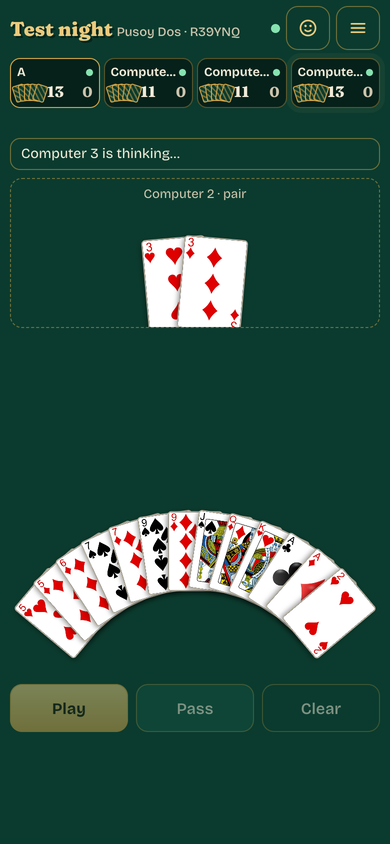
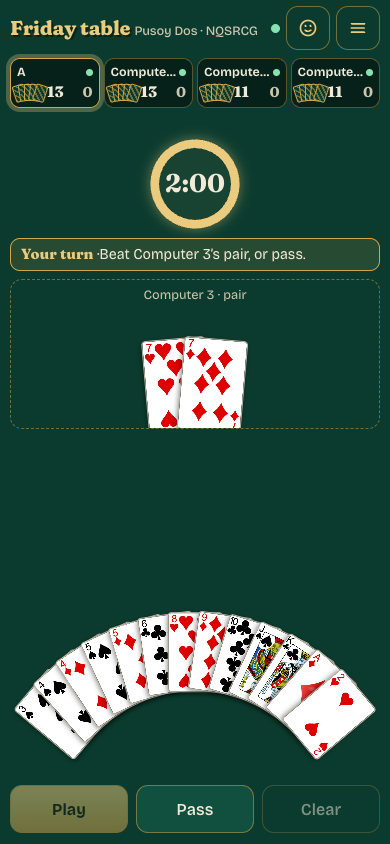
Turn time is a 1/2/3-minute toggle; bigger countdown; Pusoy row swap
- Pusoy no longer multiplies the turn time by six (30 s showed 3:00);
  the limit is exactly the chosen time in every game.
- Time per turn is a segmented toggle (No limit, 1, 2, 3 min) instead
  of a dropdown, shared by all four games.
- The countdown ring is larger, shows m:ss, and turns amber at 30 s
  and red at 10 s.
- Pusoy: "Swap middle and bottom" trades the two five-card rows.
- README screenshots and CHANGELOG updated.

Claude-Session: https://claude.ai/code/session_0179xaw4G6DEEyzuTAjUiFDP

diff --git a/src/web/components/PlayTable.svelte b/src/web/components/PlayTable.svelte
@@ -18,7 +18,10 @@
   // svelte-ignore state_referenced_locally
   const saved = Number.parseInt(getItem(`tt.stake.${room.gameId}`) ?? '', 10);
   let stakeText = $state(String(Number.isSafeInteger(saved) && saved > 0 ? saved : stakeCfg?.start ?? 1));
-  let turnSeconds = $state(Number.parseInt(getItem('tt.turnSeconds') ?? '0', 10) || 0);
+  /** Time per turn, the same choices in every game (in Pusoy it is the time to set the whole hand). */
+  const TURN_CHOICES = [0, 60, 120, 180] as const;
+  const savedTurn = Number.parseInt(getItem('tt.turnSeconds') ?? '0', 10);
+  let turnSeconds = $state<number>((TURN_CHOICES as readonly number[]).includes(savedTurn) ? savedTurn : 0);
   // Stakeless games (poker) still send a stake of 1; the server ignores it.
   const stake = $derived(!stakeCfg ? 1 : /^\d{1,8}$/.test(stakeText) ? Number.parseInt(stakeText, 10) : 0);
 
@@ -57,18 +60,19 @@
   const secondsLeft = $derived(remainingMs === null ? null : Math.ceil(remainingMs / 1000));
   const ringOffset = $derived(100 * (1 - Math.min(1, (remainingMs ?? 0) / visibleTurnMs)));
   const clock = $derived(secondsLeft === null ? '' : secondsLeft >= 60 ? `${Math.floor(secondsLeft / 60)}:${String(secondsLeft % 60).padStart(2, '0')}` : `${secondsLeft}s`);
+  const urgency = $derived(secondsLeft === null ? '' : secondsLeft <= 10 ? 'low' : secondsLeft <= 30 ? 'warn' : '');
 </script>
 
 <div class="pt">
   {#if secondsLeft !== null && !over}
-    <div class="timer" class:low={secondsLeft <= 5} role="timer" aria-label={t('play.timeLeft', { t: clock })}>
+    <div class="timer {urgency}" role="timer" aria-label={t('play.timeLeft', { t: clock })}>
       {#key deadline}
         <svg viewBox="0 0 64 64" aria-hidden="true">
           <circle class="timer-track" cx="32" cy="32" r="28" />
           <circle class="timer-ring" cx="32" cy="32" r="28" pathLength="100" stroke-dasharray="100 100" stroke-dashoffset={ringOffset} />
         </svg>
       {/key}
-      <span class="timer-number" aria-hidden="true">{secondsLeft}</span>
+      <span class="timer-number" aria-hidden="true">{clock}</span>
     </div>
   {/if}
   {#if canShowLast}<button type="button" class="ghost last" aria-expanded={showLast} onclick={() => (showLast = !showLast)}>{t('play.lastHand')}</button>{/if}
@@ -85,16 +89,20 @@
 
   {#if isHost && (!play || over)}
     <div class="deal" class:one={!stakeCfg}>
+      <fieldset class="turns">
+        <legend class="dim">{t('play.turnTime')}</legend>
+        {#each TURN_CHOICES as s (s)}
+          <label class="turn" class:on={turnSeconds === s}>
+            <input type="radio" name="turn-time" value={s} bind:group={turnSeconds} />
+            <span>{s === 0 ? t('play.turnTime.0') : t('play.turnTime.m', { n: s / 60 })}</span>
+          </label>
+        {/each}
+      </fieldset>
       {#if stakeCfg}
         <label class="f"><span class="dim">{t(stakeCfg.label)}</span>
           <input type="text" inputmode="numeric" pattern="[0-9]*" maxlength="8" bind:value={stakeText} />
         </label>
       {/if}
-      <label class="f"><span class="dim">{t('play.turnTime')}</span>
-        <select bind:value={turnSeconds}>
-          {#each [0, 20, 30, 60] as s (s)}<option value={s}>{s === 0 ? t('play.turnTime.0') : t('play.turnTime.s', { n: s })}</option>{/each}
-        </select>
-      </label>
       <button type="button" class="primary" disabled={stake < 1} onclick={deal}>{t(play ? 'play.dealNext' : 'play.deal')}</button>
     </div>
   {:else if !play}
@@ -106,17 +114,18 @@
 
 <style>
   .pt { position: relative; display: flex; flex-direction: column; gap: 8px; min-height: 0; flex: 1 1 auto; max-height: 100%; }
-  .timer { position: relative; align-self: center; flex: none; width: 64px; height: 64px; display: grid; place-items: center; color: var(--accent); }
-  .timer svg { position: absolute; inset: 0; width: 100%; height: 100%; transform: rotate(-90deg); fill: none; stroke-width: 4; }
-  .timer-track { stroke: currentColor; opacity: .18; }
-  .timer-ring { stroke: currentColor; stroke-linecap: round; transition: stroke-dashoffset 100ms linear; }
-  .timer-number { font-family: var(--font-ui); font-size: 1.35rem; line-height: 1; font-weight: 700; font-variant-numeric: tabular-nums; color: var(--text); }
+  .timer { position: relative; align-self: center; flex: none; width: 92px; height: 92px; display: grid; place-items: center; color: var(--accent); border-radius: 50%; background: radial-gradient(circle, color-mix(in srgb, var(--bg) 85%, transparent) 55%, transparent 72%); filter: drop-shadow(0 0 6px color-mix(in srgb, currentColor 45%, transparent)); }
+  .timer svg { position: absolute; inset: 0; width: 100%; height: 100%; transform: rotate(-90deg); fill: none; stroke-width: 6; }
+  .timer-track { stroke: currentColor; opacity: .2; }
+  .timer-ring { stroke: currentColor; stroke-linecap: round; transition: stroke-dashoffset 100ms linear, stroke 300ms; }
+  .timer-number { font-family: var(--font-display, var(--font-ui)); font-size: 1.6rem; line-height: 1; font-weight: 700; font-variant-numeric: tabular-nums; color: var(--text); }
+  .timer.warn { color: var(--warn); }
   .timer.low { color: var(--neg); animation: timer-pulse 1s ease-in-out infinite; }
   .timer.low .timer-number { color: currentColor; }
-  @keyframes timer-pulse { 50% { filter: drop-shadow(0 0 5px currentColor); } }
+  @keyframes timer-pulse { 50% { transform: scale(1.08); filter: drop-shadow(0 0 12px currentColor); } }
   @media (max-height: 700px) {
-    .timer { width: 52px; height: 52px; }
-    .timer-number { font-size: 1.1rem; }
+    .timer { width: 72px; height: 72px; }
+    .timer-number { font-size: 1.25rem; }
   }
   @media (prefers-reduced-motion: reduce) {
     .timer.low { animation: none; }
@@ -127,8 +136,16 @@
   .lasthead { display: flex; justify-content: space-between; align-items: center; }
   .deal { flex: none; display: grid; grid-template-columns: 1fr 1fr; gap: 6px 8px; align-items: end; }
   .deal.one { grid-template-columns: 1fr; }
-  .deal button { grid-column: 1 / -1; }
+  .deal.one button { grid-column: 1 / -1; }
+  .turns { grid-column: 1 / -1; display: grid; grid-template-columns: repeat(4, 1fr); gap: 0; margin: 0; padding: 0; border: 0; min-width: 0; }
+  .turns legend { font-size: .75rem; padding: 0; margin-bottom: 2px; }
+  .turn { position: relative; display: grid; place-items: center; min-height: 44px; padding: 0 4px; border: 1px solid var(--line); margin-left: -1px; font-size: .85rem; font-weight: 600; text-align: center; cursor: pointer; color: var(--text); }
+  .turn:first-of-type { margin-left: 0; border-radius: 12px 0 0 12px; }
+  .turn:last-of-type { border-radius: 0 12px 12px 0; }
+  .turn.on { z-index: 1; background: linear-gradient(180deg, var(--brass-soft), var(--brass)); border-color: var(--brass); color: #1d1608; }
+  .turn input { position: absolute; opacity: 0; inset: 0; margin: 0; width: 100%; height: 100%; min-height: 0; cursor: pointer; }
+  .turn:has(input:focus-visible) { outline: 3px solid var(--brass-soft); outline-offset: 2px; z-index: 2; }
   .f { display: flex; flex-direction: column; gap: 2px; font-size: .75rem; margin: 0; }
-  .f input, .f select { min-height: 44px; }
+  .f input { min-height: 44px; }
   .wait { margin: 0; text-align: center; }
 </style>

diff --git a/src/web/games/pusoy/Play.svelte b/src/web/games/pusoy/Play.svelte
@@ -92,6 +92,15 @@
       save(view.hand, next);
     }
   }
+  /** Move the whole middle row to the bottom and the bottom row to the middle (both hold 5 cards). */
+  function swapRows() {
+    if (layout.length !== 13) return;
+    const next = [...rows.front, ...rows.back, ...rows.middle];
+    layout = next;
+    sel = null;
+    touched = true;
+    save(view.hand, next);
+  }
   function confirm() {
     if (problem !== null) return;
     onmove({ t: 'set', back: rows.back, middle: rows.middle, front: rows.front });
@@ -114,6 +123,7 @@
       <ul>
         <li>{t('pusoy.play.rule.layout')}</li>
         <li>{t('pusoy.play.rule.swap')}</li>
+        <li>{t('pusoy.play.rule.swapRows')}</li>
         <li>{t('pusoy.play.rule.order')}</li>
         <li>{t('pusoy.play.rule.ranks')}</li>
         <li>{t('pusoy.play.rule.secret')}</li>
@@ -174,7 +184,10 @@
       <HeldRows rows={[rows.front, rows.middle, rows.back]} labels={labelsOf(rows)} selected={sel} onpick={pick} bad={touched && problem === 'order'} label={t('play.yourHand')} />
     </div>
     {#if touched && problem === 'order'}<p class="hint" role="alert">{t('pusoy.play.order')}</p>{/if}
-    <button type="button" class="primary" disabled={problem !== null} onclick={confirm}>{t('pusoy.play.confirm')}</button>
+    <div class="acts">
+      <button type="button" onclick={swapRows}>⇅ {t('pusoy.play.swapRows')}</button>
+      <button type="button" class="primary" disabled={problem !== null} onclick={confirm}>{t('pusoy.play.confirm')}</button>
+    </div>
     {#if waiting.length > 0}<p class="dim small">{t('pusoy.play.waiting', { names: waiting.map(nameOf).join(', ') })}</p>{/if}
   {/if}
 </div>
@@ -188,6 +201,8 @@
   .rules li { margin: .3em 0; }
   .hand { flex: 1 1 0; min-height: 200px; padding-right: 2px; }
   .nat-btn { width: 100%; }
+  .acts { flex: none; display: grid; grid-template-columns: 1fr 1fr; gap: 8px; }
+  .acts button { min-height: 44px; padding: 6px 8px; line-height: 1.15; }
   .hint { margin: 0; color: #ffb79e; font-size: .8rem; text-align: center; }
   .small { margin: 0; font-size: .78rem; text-align: center; }
   .legend { padding-right: 44px; text-align: left; }

diff --git a/src/web/lib/i18n.svelte.ts b/src/web/lib/i18n.svelte.ts
@@ -246,7 +246,7 @@ const en: Record<string, string> = {
   'play.stake': 'Points per loser',
   'play.turnTime': 'Time per turn',
   'play.turnTime.0': 'No limit',
-  'play.turnTime.s': '{n} seconds',
+  'play.turnTime.m': '{n} min',
   'play.yourTurn': 'Your turn',
   'play.turnOf': '{name} is thinking…',
   'play.lead': 'You lead: play any cards.',
@@ -300,6 +300,8 @@ const en: Record<string, string> = {
   'tong.play.fold': 'Fold',
   'tong.play.challenge': 'Challenge',
   'pusoy.play.confirm': 'Confirm my hand',
+  'pusoy.play.swapRows': 'Swap middle and bottom',
+  'pusoy.play.rule.swapRows': 'Swap middle and bottom moves the whole middle row to the bottom and the bottom row to the middle.',
   'pusoy.play.order': 'The back must be at least as strong as the middle, and the middle at least as strong as the front.',
   'pusoy.play.setDone': 'Your hand is set.',
   'pusoy.play.waiting': 'Waiting for {names}',
@@ -505,7 +507,7 @@ const tl: Record<string, string> = {
   'play.stake': 'Puntos bawat talo',
   'play.turnTime': 'Oras bawat turno',
   'play.turnTime.0': 'Walang limit',
-  'play.turnTime.s': '{n} segundo',
+  'play.turnTime.m': '{n} min',
   'play.yourTurn': 'Turno mo',
   'play.turnOf': 'Nag-iisip si {name}…',
   'play.lead': 'Ikaw ang mauuna: maglaro ng kahit anong baraha.',
@@ -559,6 +561,8 @@ const tl: Record<string, string> = {
   'tong.play.fold': 'Fold',
   'tong.play.challenge': 'Hamunin',
   'pusoy.play.confirm': 'Kumpirmahin ang kamay ko',
+  'pusoy.play.swapRows': 'Ipagpalit ang gitna at ibaba',
+  'pusoy.play.rule.swapRows': 'Ang "Ipagpalit ang gitna at ibaba" ay naglilipat ng buong gitnang hanay sa ibaba, at ng ibaba sa gitna.',
   'pusoy.play.order': 'Dapat kasing-lakas o mas malakas ang likod kaysa gitna, at ang gitna kaysa harap.',
   'pusoy.play.setDone': 'Naayos na ang kamay mo.',
   'pusoy.play.waiting': 'Hinihintay si/sina {names}',

diff --git a/test/room-play.test.ts b/test/room-play.test.ts
@@ -419,9 +419,9 @@ describe('Pusoy in the app (everyone sets in secret, at the same time)', () => {
     expect(playEnvelope(d, 'p1')!.pending).not.toContain('p1');
   });
 
-  it('the shared time limit is six times the turn time, and when it runs out every human still pending gets the safe set', () => {
+  it('the shared time limit is the chosen turn time, and when it runs out every human still pending gets the safe set', () => {
     let d = pusoyRoom(['easy', 'easy'], 2);
-    d = ok(applyMessage(d, host(d), { t: 'deal', stake: 10, turnSeconds: 20 }, T0 + 10, 5));
+    d = ok(applyMessage(d, host(d), { t: 'deal', stake: 10, turnSeconds: 120 }, T0 + 10, 5));
     const started = d.play!.turnStartedAt!;
     expect(playEnvelope(d, 'p1')!.turnEndsAt).toBe(started + 120_000);
     expect(wakeAt(d)).toBe(Math.min(d.play!.botAt!, started + 120_000));

diff --git a/src/core/play.ts b/src/core/play.ts
@@ -32,8 +32,6 @@ export interface PlayEngine<Setup = any, State = any, Move = any, View = any> {
   pending?(state: State): string[];
   /** True when `pending` can hold several players at once. Their one shared time limit starts when the hand is dealt. */
   simultaneous?: boolean;
-  /** Multiplies the host's time-per-turn for this game (setting 13 cards takes longer than one move). Default 1. */
-  turnFactor?: number;
   /** Human-readable problems with a move. Empty means legal. */
   validate(state: State, playerId: string, move: unknown): string[];
   /** Apply a validated move. */

diff --git a/src/worker/roomLogic.ts b/src/worker/roomLogic.ts
@@ -435,10 +435,9 @@ function pendingOf(s: RoomState): string[] {
   return who ? [who] : [];
 }
 
-/** How long a human has: the host's per-turn time, longer in games where a whole hand is set at once. */
+/** How long a human has: exactly the host's time per turn (in Pusoy, the time to set the whole hand). */
 function turnLimitMs(s: RoomState): number {
-  const engine = getEngine(s.gameId);
-  return (s.play?.turnMs ?? 0) * (engine?.turnFactor ?? 1);
+  return s.play?.turnMs ?? 0;
 }
 
 /** Set (or clear) the computer-move time and the turn clock after anything changed the hand. */

diff --git a/src/web/theme.css b/src/web/theme.css
@@ -28,6 +28,7 @@
   --accent: var(--brass-soft);
   --pos: var(--mint);
   --neg: #ff967a;
+  --warn: #ffc861;
   --radius: 14px;
   --font-display: 'Fraunces Variable', 'Iowan Old Style', Georgia, serif;
   --font-ui: 'Bricolage Grotesque Variable', system-ui, -apple-system, 'Segoe UI', Roboto, sans-serif;
@@ -54,6 +55,7 @@
     --accent: #7a5a12;
     --pos: #0b6b3f;
     --neg: #b23a1a;
+    --warn: #9a5b00;
     --sign-shadow: 2px 2px 0 color-mix(in srgb, #8a6a1f 35%, transparent);
     color-scheme: light;
   }

diff --git a/src/games/pusoy/engine.ts b/src/games/pusoy/engine.ts
@@ -438,7 +438,6 @@ export const pusoyEngine: PlayEngine<PusoySetup, PsState, PsMove, PsView> = {
   toAct: (s) => (s.done ? null : (pendingOf(s)[0] ?? null)),
   pending: (s) => (s.done ? [] : pendingOf(s)),
   simultaneous: true,
-  turnFactor: 6,
   validate,
   apply,
   viewFor,

diff --git a/README.md b/README.md
@@ -6,14 +6,14 @@ Card games with friends, on your phones. The host starts a table and picks the g
 
 | Pusoy Dos | Pusoy | After a Pusoy hand |
 |---|---|---|
-| ![A Pusoy Dos hand held as a fan of cards](docs/screenshots/pusoy-dos.png) | ![Pusoy cards held as three overlapping rows](docs/screenshots/pusoy.png) | ![Everyone's rows after a hand, marked won or lost](docs/screenshots/pusoy-reveal.png) |
+| ![A Pusoy Dos hand held as a fan of cards, with the turn countdown ring](docs/screenshots/pusoy-dos.png) | ![Pusoy cards held as three overlapping rows, with the countdown ring and the swap button](docs/screenshots/pusoy.png) | ![Everyone's rows after a hand, marked won or lost](docs/screenshots/pusoy-reveal.png) |
 
 ## How to play
 
 1. Open **[TableTally](https://tabletally.tabletally.workers.dev)** on your phone or computer and choose **Start a table**.
 2. Pick Pusoy Dos, Pusoy, Tong-its or Poker, set the player count and table options, enter your display name, then choose **Create table**.
 3. Invite friends by sharing the table link or letting them scan its QR code. They can also open the app, choose **Join a table** and enter the six-letter table code. Each friend enters a display name and taps **Sit down**.
-4. Once every seat is filled, the host taps **Deal**. Play your cards in the app; it checks the moves, keeps everyone's cards private and records the score automatically.
+4. Once every seat is filled, the host picks a time per turn (No limit, 1, 2 or 3 minutes) and taps **Deal**. Play your cards in the app; it checks the moves, keeps everyone's cards private and records the score automatically.
 5. After the hand, review the results. The host taps **Deal the next hand** to keep playing.
 
 **Playing solo?** Add computer players when creating the table. Choose Easy, Normal or Hard to fill the other seats, then deal.

diff --git a/CHANGELOG.md b/CHANGELOG.md
@@ -9,6 +9,11 @@ All notable changes to TableTally. Dates are in Asia/Tokyo. Codes in brackets ar
 - Round history is read-only. The host can void the last hand after a confirmation and bring it back until the next hand is recorded (a new `round.restore` ledger event). Poker hands cannot be voided, because every hand starts from the stacks the last one left [U09].
 - History numbers hands by position, so a voided hand never leaves a gap [C05].
 
+### Turn timer and Pusoy rows
+- Time per turn is now a toggle with the same choices in every game: No limit, 1, 2 or 3 minutes. The time is exactly what you pick; Pusoy used to multiply it by six (30 seconds became 3:00).
+- The countdown is a large ring in the middle of the table that drains as time runs out, turning amber at 30 seconds and red, pulsing, at 10.
+- Pusoy has a "Swap middle and bottom" button that trades the two five-card rows in one tap.
+
 ### Cards and screens
 - Real card faces from Byron Knoll's public-domain deck: number cards show their pips and J, Q, K show court art. The whole deck is one 584 KB image. Cards under 40 px wide switch to a big rank and suit so they stay readable.
 - Hands are held like real cards: an arc fan in Pusoy Dos, Tong-its and Poker, and Pusoy's top 3, middle 5 and bottom 5 overlapping from back to front. Pickable fans keep a 32 px strip of every card to tap.
